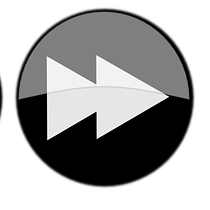
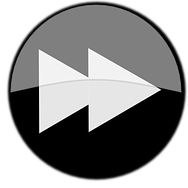
Front Panel Layout Update: - Edit to src image for ff button. - Edit to the top menu bar for application. Recolored black entirely.

Changed region(s): [[0.0, 0.0, 1.0, 0.984], [0.3191, 0.3191, 0.3989, 0.3723], [0.266, 0.2926, 0.3191, 0.3191]]

diff --git a/src/WavPlayerMain.java b/src/WavPlayerMain.java
@@ -259,7 +259,7 @@ public class WavPlayerMain extends Application{
         minimizeButton.setText("-");
         minimizeButton.setMinHeight(25);
         minimizeButton.setMinWidth(50);
-        minimizeButton.setStyle("-fx-background-color: #4d4d4e");
+        minimizeButton.setStyle("-fx-background-color: #000000");
         minimizeButton.setTextFill(Color.WHITE);
 
         //MINIMIZE BUTTON LISTENER
@@ -276,7 +276,7 @@ public class WavPlayerMain extends Application{
         fullScreenButton.setMinHeight(25);
         fullScreenButton.setMinWidth(50);
         fullScreenButton.setTextFill(Color.WHITE);
-        fullScreenButton.setStyle("-fx-background-color: #4d4d4e");
+        fullScreenButton.setStyle("-fx-background-color: #000000");
 
         //FULL SCREEN BUTTON LISTENER//
         fullScreenButton.setOnAction(new EventHandler<ActionEvent>() {
@@ -337,9 +337,9 @@ public class WavPlayerMain extends Application{
 
         //Formats panel holding the custom minimize, fullscreen, and close buttons on the top right.
         cornerButtons.setAlignment(Pos.TOP_RIGHT);
-        cornerButtons.setMaxHeight(30);
+        cornerButtons.setMinHeight(28);
         cornerButtons.setBorder(new Border(new BorderStroke(Color.BLACK,BorderStrokeStyle.NONE,CornerRadii.EMPTY,BorderWidths.DEFAULT)));
-        cornerButtons.setStyle("-fx-background-color: #4d4d4e");
+        cornerButtons.setStyle("-fx-background-color: #000000");
         cornerButtons.getChildren().addAll(minimizeButton,fullScreenButton,exitButton);
 
         //Add the slider and labels along with the song timer text bos to the songTimer VBox. They will be put in vertical order.
